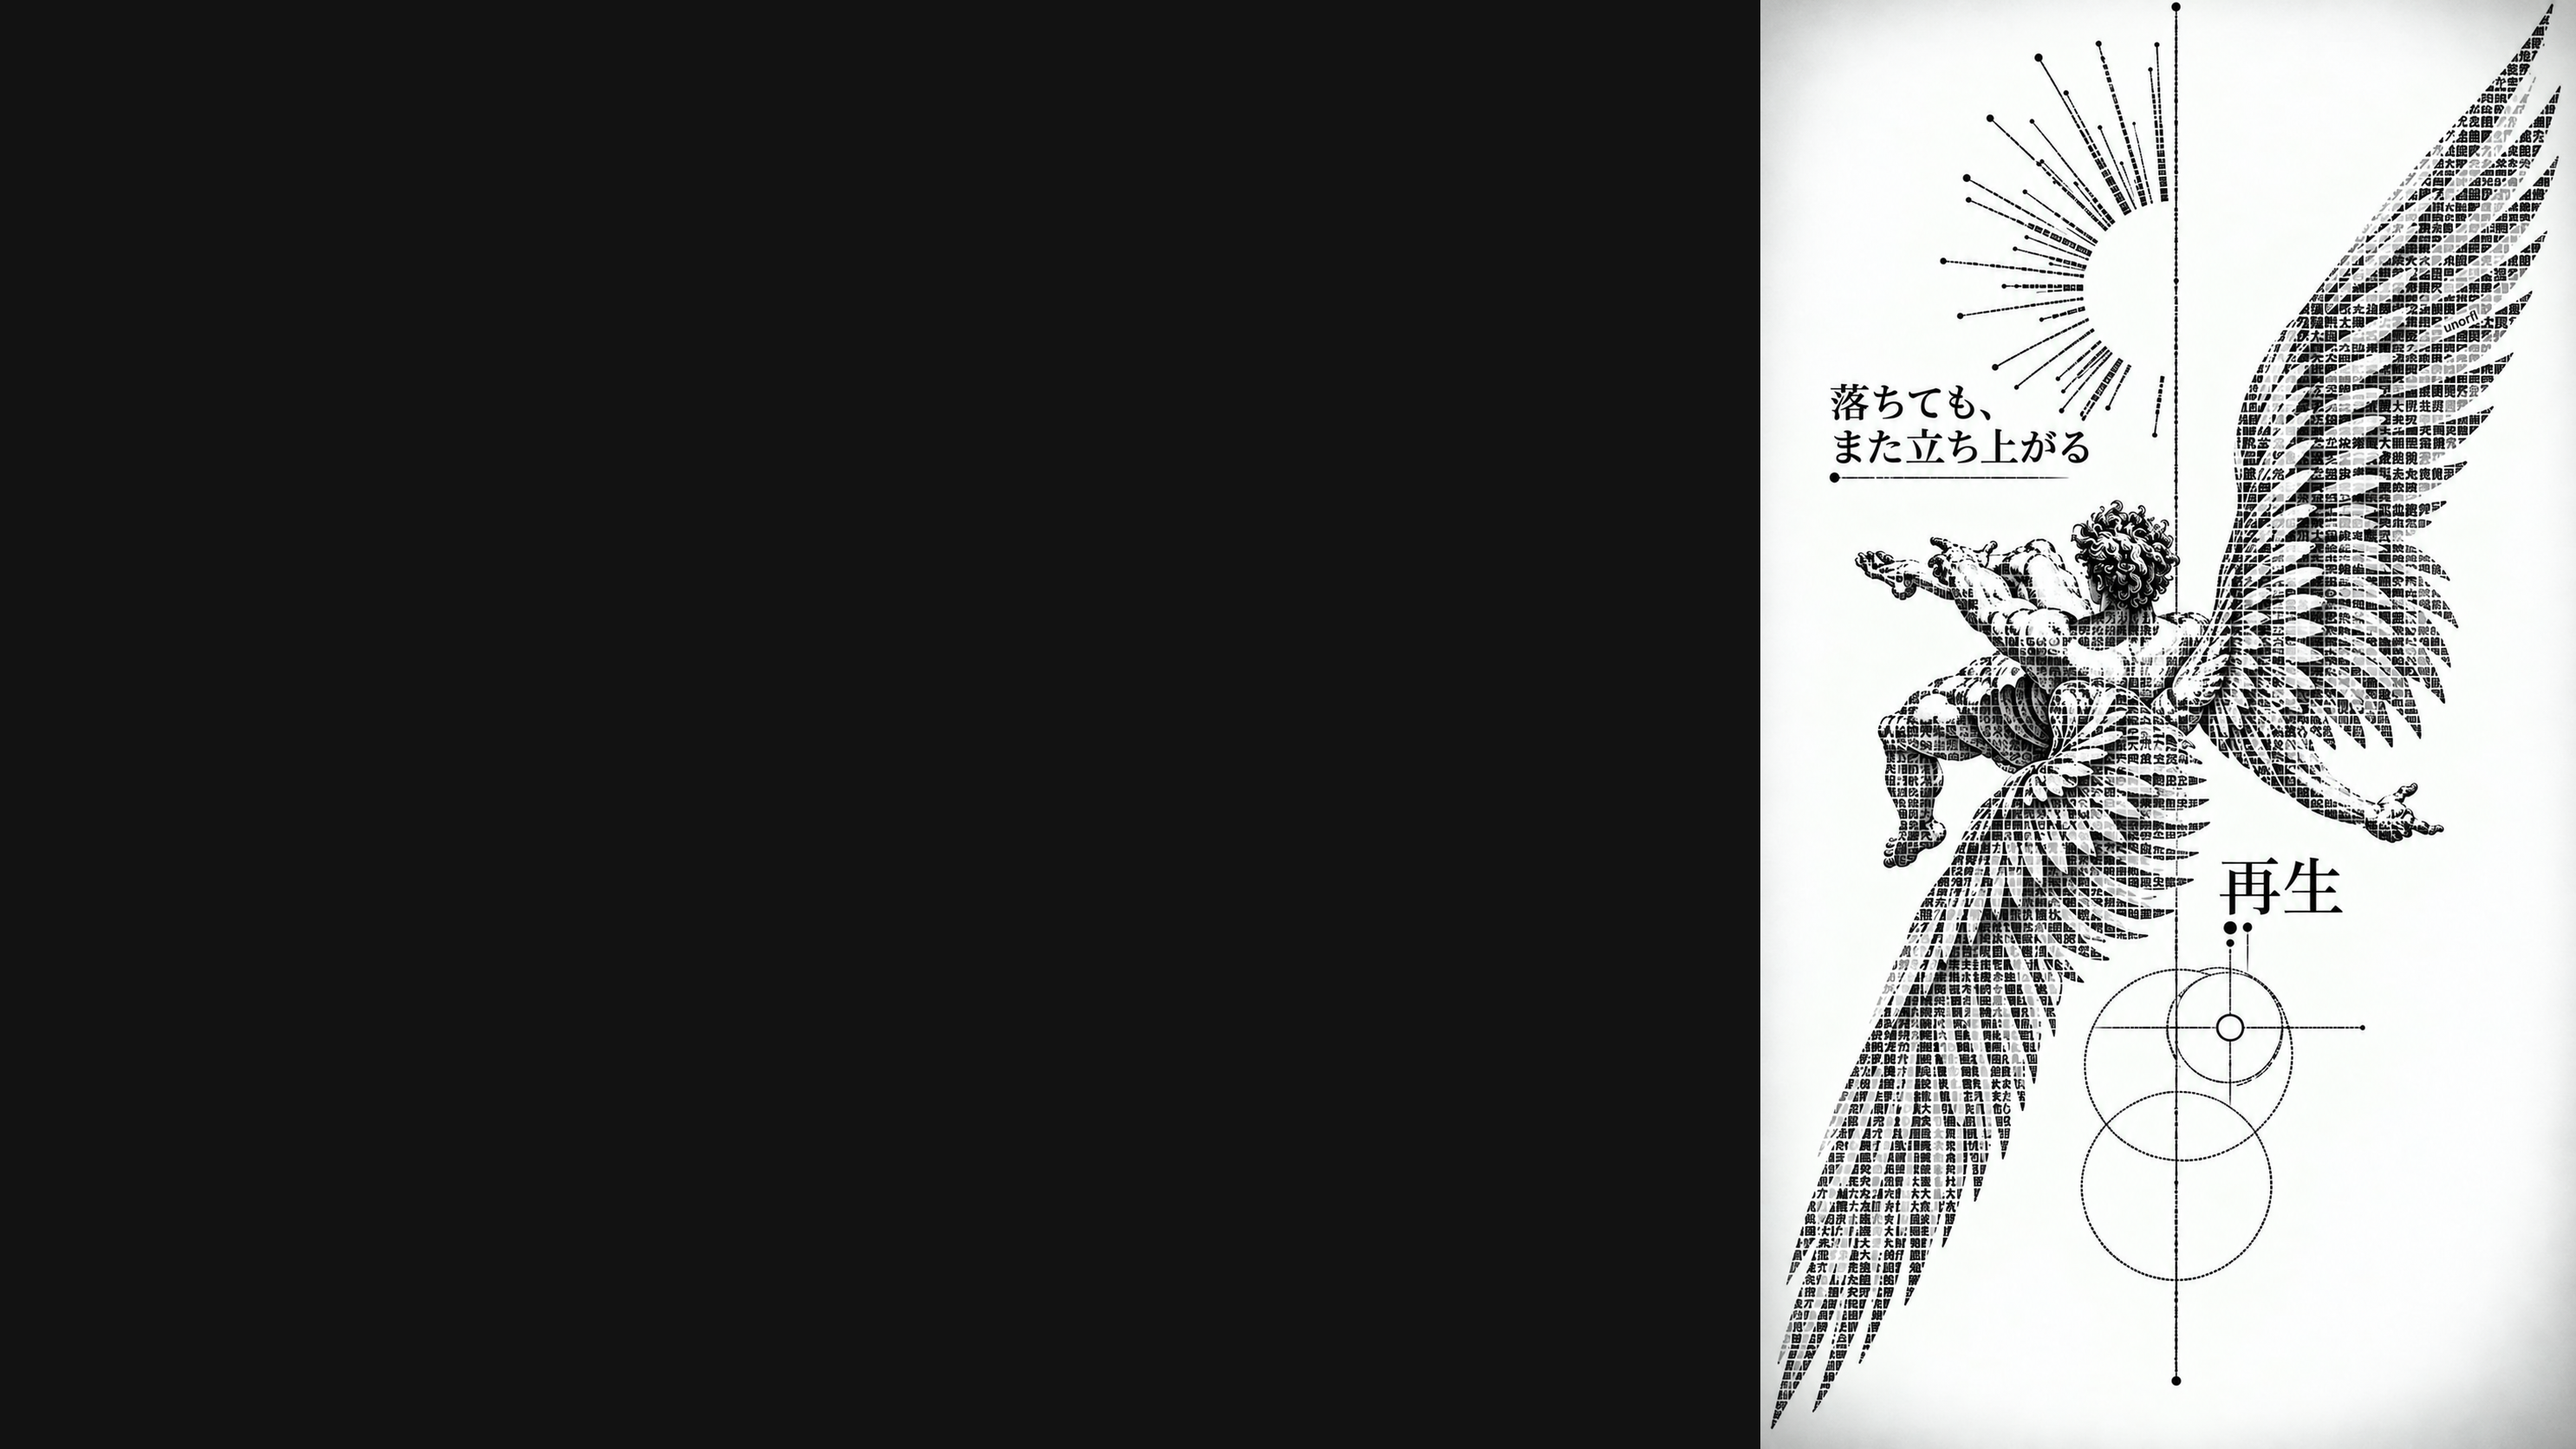
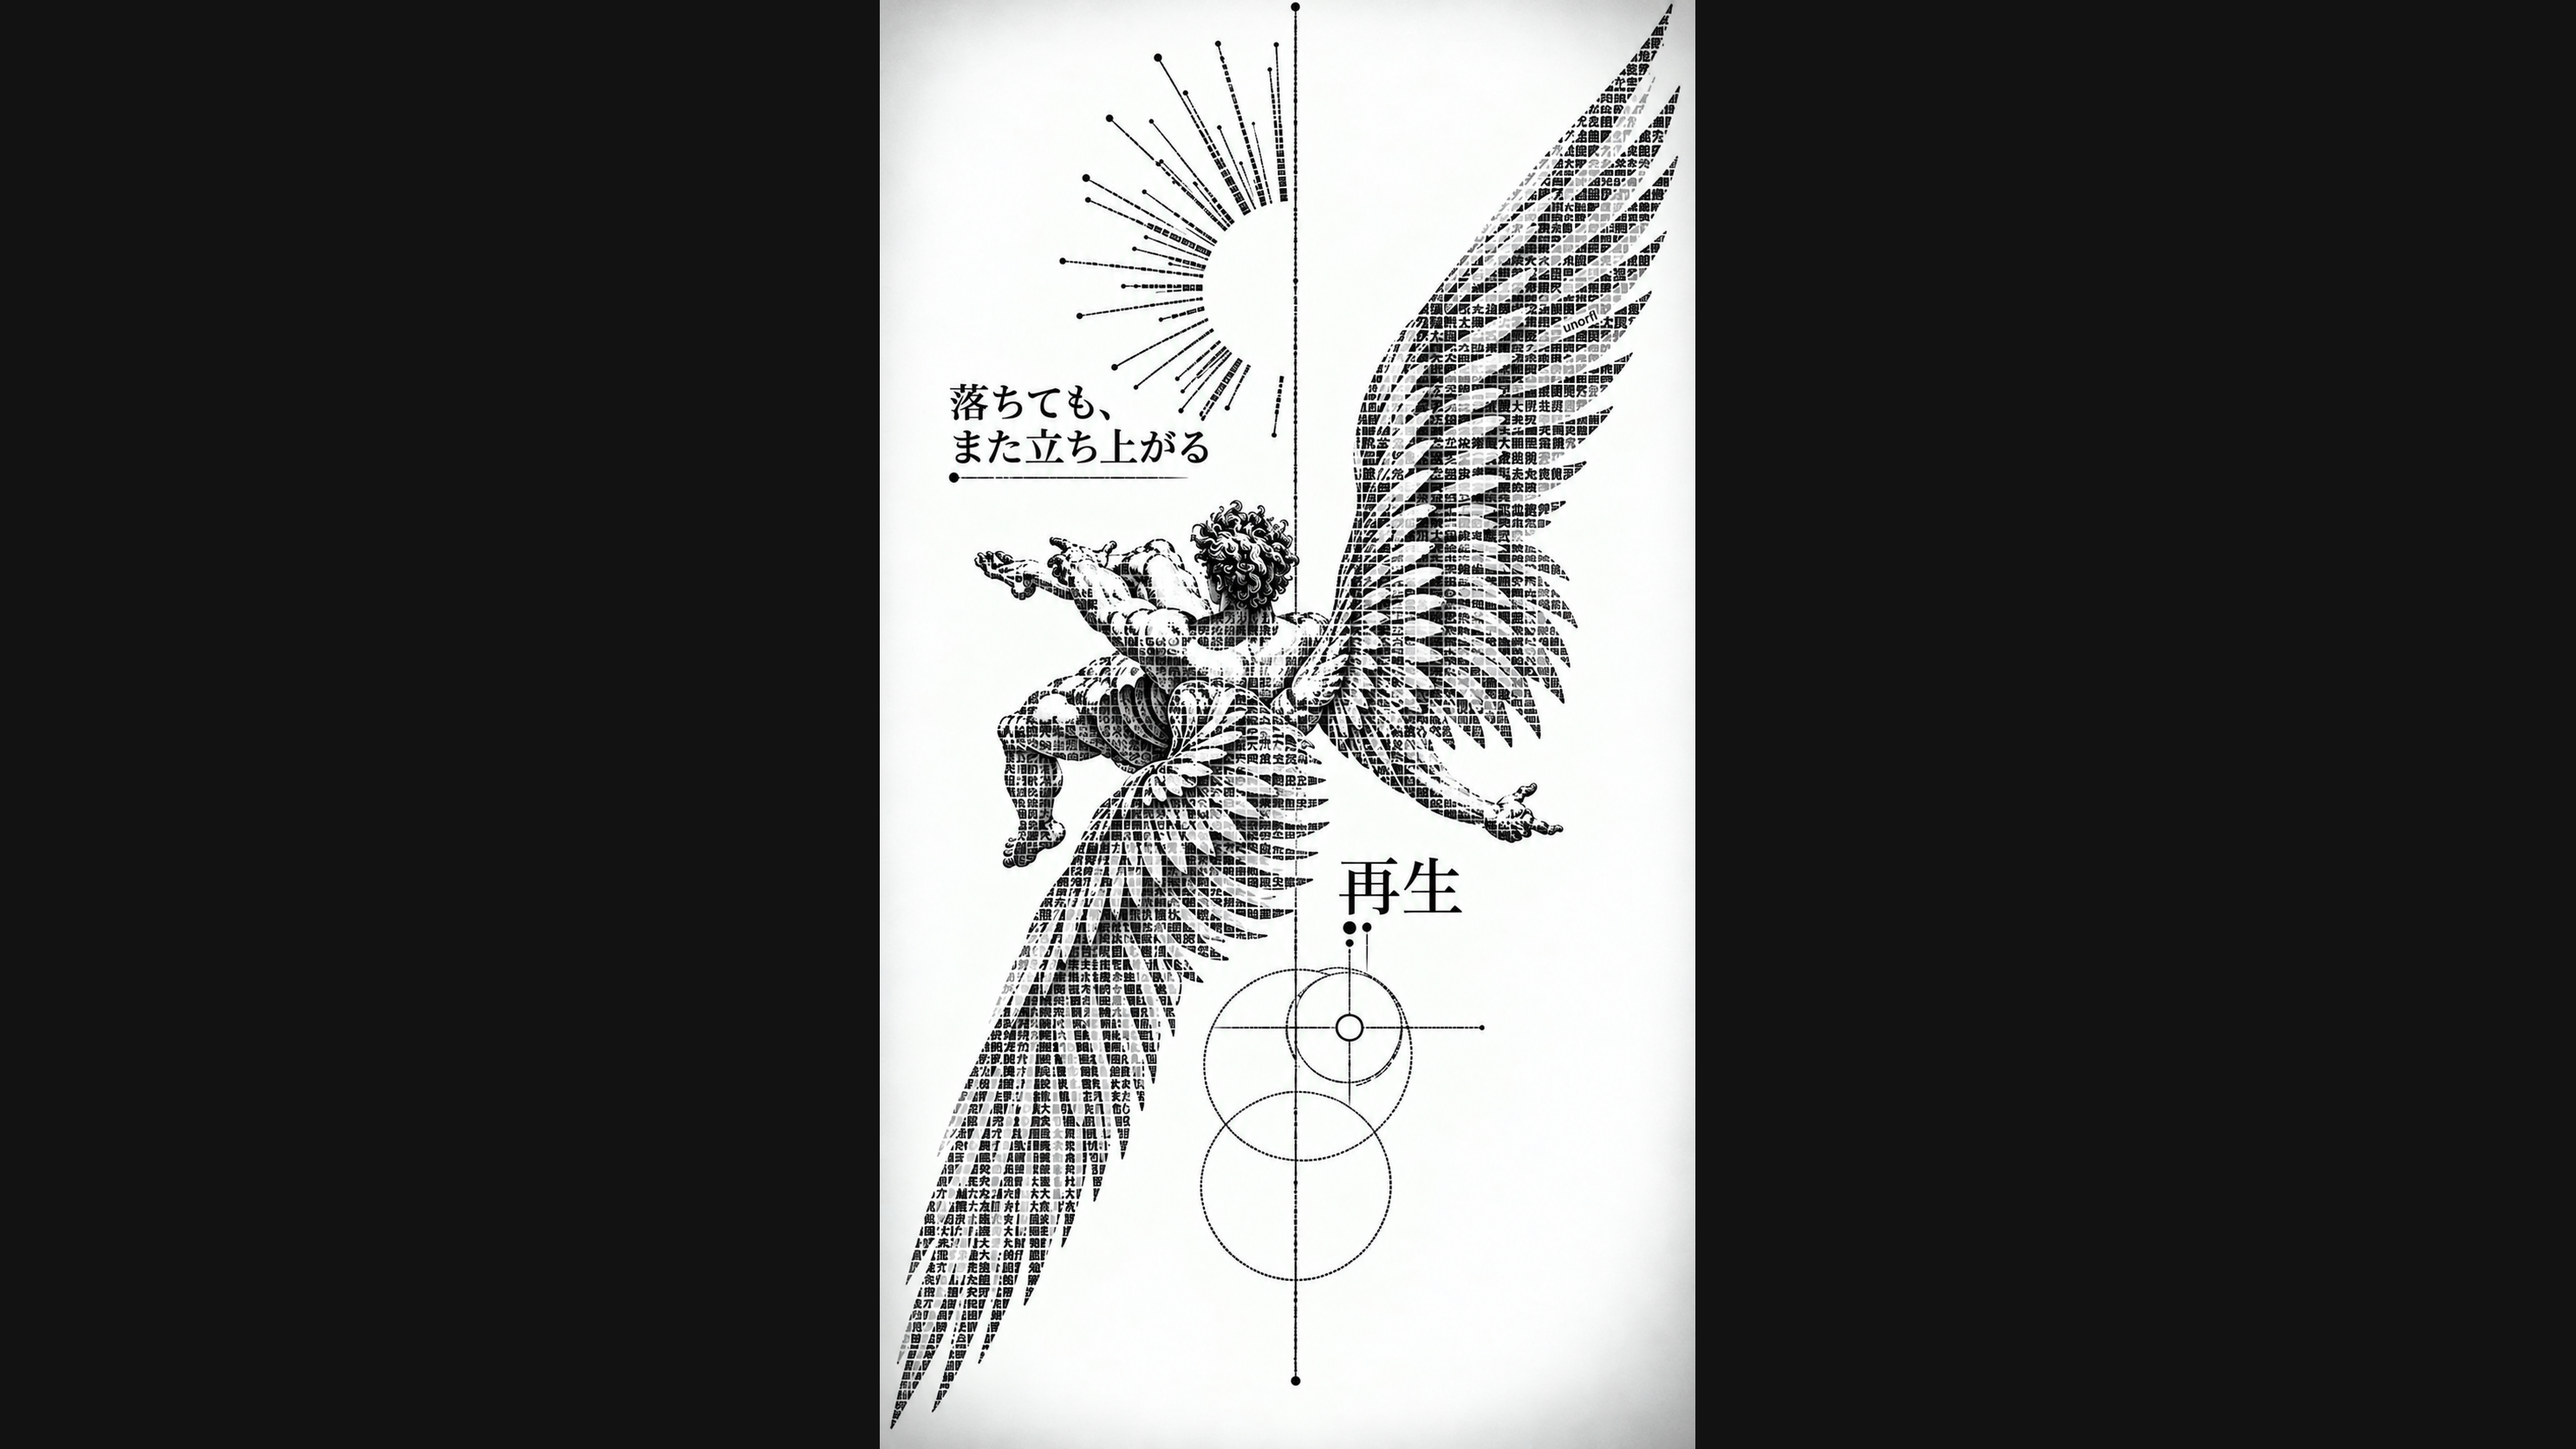
Center hero artwork and soften the side edges

diff --git a/assets/css/site.css b/assets/css/site.css
@@ -210,7 +210,8 @@ main { flex: 999 1 560px; min-width: 0; }
 .hero { position: relative; left: 50%; transform: translateX(-50%); width: min(calc(100vw - 296px), 1600px); height: clamp(500px, 62vh, 700px); padding: clamp(40px, 7vw, 96px); display: flex; align-items: center; overflow: hidden; isolation: isolate; border: 1px solid var(--line-2); border-radius: 22px; }
 .hero-art { position: absolute; inset: 0; z-index: -2; width: 100%; height: 100%; margin: 0; overflow: hidden; background: #101010; }
 .hero-art picture { position: absolute; inset: 0; display: block; }
-.hero-art img { width: 100%; height: 100%; max-width: none; object-fit: contain; object-position: right center; }
+.hero-art img { width: 100%; height: 100%; max-width: none; object-fit: contain; object-position: center; }
+.hero::before { content: ''; position: absolute; z-index: 0; inset: 0 0 0 auto; width: 18%; border-left: 1px solid rgba(255,255,255,.16); background: rgba(255,255,255,.12); backdrop-filter: blur(9px); -webkit-backdrop-filter: blur(9px); pointer-events: none; }
 .hero::after { content: ''; position: absolute; z-index: -1; inset: 0; background: linear-gradient(90deg, rgba(0,0,0,.88) 0%, rgba(0,0,0,.72) 38%, rgba(0,0,0,.4) 68%, rgba(0,0,0,.14) 100%); }
 .hero-copy { position: relative; z-index: 1; width: min(62%, 720px); display: flex; flex-direction: column; gap: 24px; }
 .hero .display { font-size: clamp(48px, 6vw, 84px); }

diff --git a/3d-motion.html b/3d-motion.html
@@ -22,7 +22,7 @@
 <link rel="icon" href="favicon-64.png?v=2c873264" type="image/png" sizes="64x64">
 <link rel="apple-touch-icon" href="apple-touch-icon.png?v=bfe28c88">
 <link rel="preload" href="assets/fonts/montserrat-latin.woff2" as="font" type="font/woff2" crossorigin>
-<link rel="stylesheet" href="assets/css/site.css?v=54745401">
+<link rel="stylesheet" href="assets/css/site.css?v=79960095">
 </head>
 <body>
 <a class="skip" href="#content">Skip to content</a>

diff --git a/about.html b/about.html
@@ -22,7 +22,7 @@
 <link rel="icon" href="favicon-64.png?v=2c873264" type="image/png" sizes="64x64">
 <link rel="apple-touch-icon" href="apple-touch-icon.png?v=bfe28c88">
 <link rel="preload" href="assets/fonts/montserrat-latin.woff2" as="font" type="font/woff2" crossorigin>
-<link rel="stylesheet" href="assets/css/site.css?v=54745401">
+<link rel="stylesheet" href="assets/css/site.css?v=79960095">
 </head>
 <body>
 <a class="skip" href="#content">Skip to content</a>

diff --git a/contact.html b/contact.html
@@ -22,7 +22,7 @@
 <link rel="icon" href="favicon-64.png?v=2c873264" type="image/png" sizes="64x64">
 <link rel="apple-touch-icon" href="apple-touch-icon.png?v=bfe28c88">
 <link rel="preload" href="assets/fonts/montserrat-latin.woff2" as="font" type="font/woff2" crossorigin>
-<link rel="stylesheet" href="assets/css/site.css?v=54745401">
+<link rel="stylesheet" href="assets/css/site.css?v=79960095">
 </head>
 <body>
 <a class="skip" href="#content">Skip to content</a>

diff --git a/index.html b/index.html
@@ -22,7 +22,7 @@
 <link rel="icon" href="favicon-64.png?v=2c873264" type="image/png" sizes="64x64">
 <link rel="apple-touch-icon" href="apple-touch-icon.png?v=bfe28c88">
 <link rel="preload" href="assets/fonts/montserrat-latin.woff2" as="font" type="font/woff2" crossorigin>
-<link rel="stylesheet" href="assets/css/site.css?v=54745401">
+<link rel="stylesheet" href="assets/css/site.css?v=79960095">
 </head>
 <body>
 <a class="skip" href="#content">Skip to content</a>

diff --git a/mochi-print.html b/mochi-print.html
@@ -22,7 +22,7 @@
 <link rel="icon" href="favicon-64.png?v=2c873264" type="image/png" sizes="64x64">
 <link rel="apple-touch-icon" href="apple-touch-icon.png?v=bfe28c88">
 <link rel="preload" href="assets/fonts/montserrat-latin.woff2" as="font" type="font/woff2" crossorigin>
-<link rel="stylesheet" href="assets/css/site.css?v=54745401">
+<link rel="stylesheet" href="assets/css/site.css?v=79960095">
 </head>
 <body>
 <a class="skip" href="#content">Skip to content</a>

diff --git a/orbit.html b/orbit.html
@@ -22,7 +22,7 @@
 <link rel="icon" href="favicon-64.png?v=2c873264" type="image/png" sizes="64x64">
 <link rel="apple-touch-icon" href="apple-touch-icon.png?v=bfe28c88">
 <link rel="preload" href="assets/fonts/montserrat-latin.woff2" as="font" type="font/woff2" crossorigin>
-<link rel="stylesheet" href="assets/css/site.css?v=54745401">
+<link rel="stylesheet" href="assets/css/site.css?v=79960095">
 </head>
 <body>
 <a class="skip" href="#content">Skip to content</a>

diff --git a/pocket-nova.html b/pocket-nova.html
@@ -22,7 +22,7 @@
 <link rel="icon" href="favicon-64.png?v=2c873264" type="image/png" sizes="64x64">
 <link rel="apple-touch-icon" href="apple-touch-icon.png?v=bfe28c88">
 <link rel="preload" href="assets/fonts/montserrat-latin.woff2" as="font" type="font/woff2" crossorigin>
-<link rel="stylesheet" href="assets/css/site.css?v=54745401">
+<link rel="stylesheet" href="assets/css/site.css?v=79960095">
 </head>
 <body>
 <a class="skip" href="#content">Skip to content</a>

diff --git a/tpn-os.html b/tpn-os.html
@@ -22,7 +22,7 @@
 <link rel="icon" href="favicon-64.png?v=2c873264" type="image/png" sizes="64x64">
 <link rel="apple-touch-icon" href="apple-touch-icon.png?v=bfe28c88">
 <link rel="preload" href="assets/fonts/montserrat-latin.woff2" as="font" type="font/woff2" crossorigin>
-<link rel="stylesheet" href="assets/css/site.css?v=54745401">
+<link rel="stylesheet" href="assets/css/site.css?v=79960095">
 </head>
 <body>
 <a class="skip" href="#content">Skip to content</a>

diff --git a/work.html b/work.html
@@ -22,7 +22,7 @@
 <link rel="icon" href="favicon-64.png?v=2c873264" type="image/png" sizes="64x64">
 <link rel="apple-touch-icon" href="apple-touch-icon.png?v=bfe28c88">
 <link rel="preload" href="assets/fonts/montserrat-latin.woff2" as="font" type="font/woff2" crossorigin>
-<link rel="stylesheet" href="assets/css/site.css?v=54745401">
+<link rel="stylesheet" href="assets/css/site.css?v=79960095">
 </head>
 <body>
 <a class="skip" href="#content">Skip to content</a>
